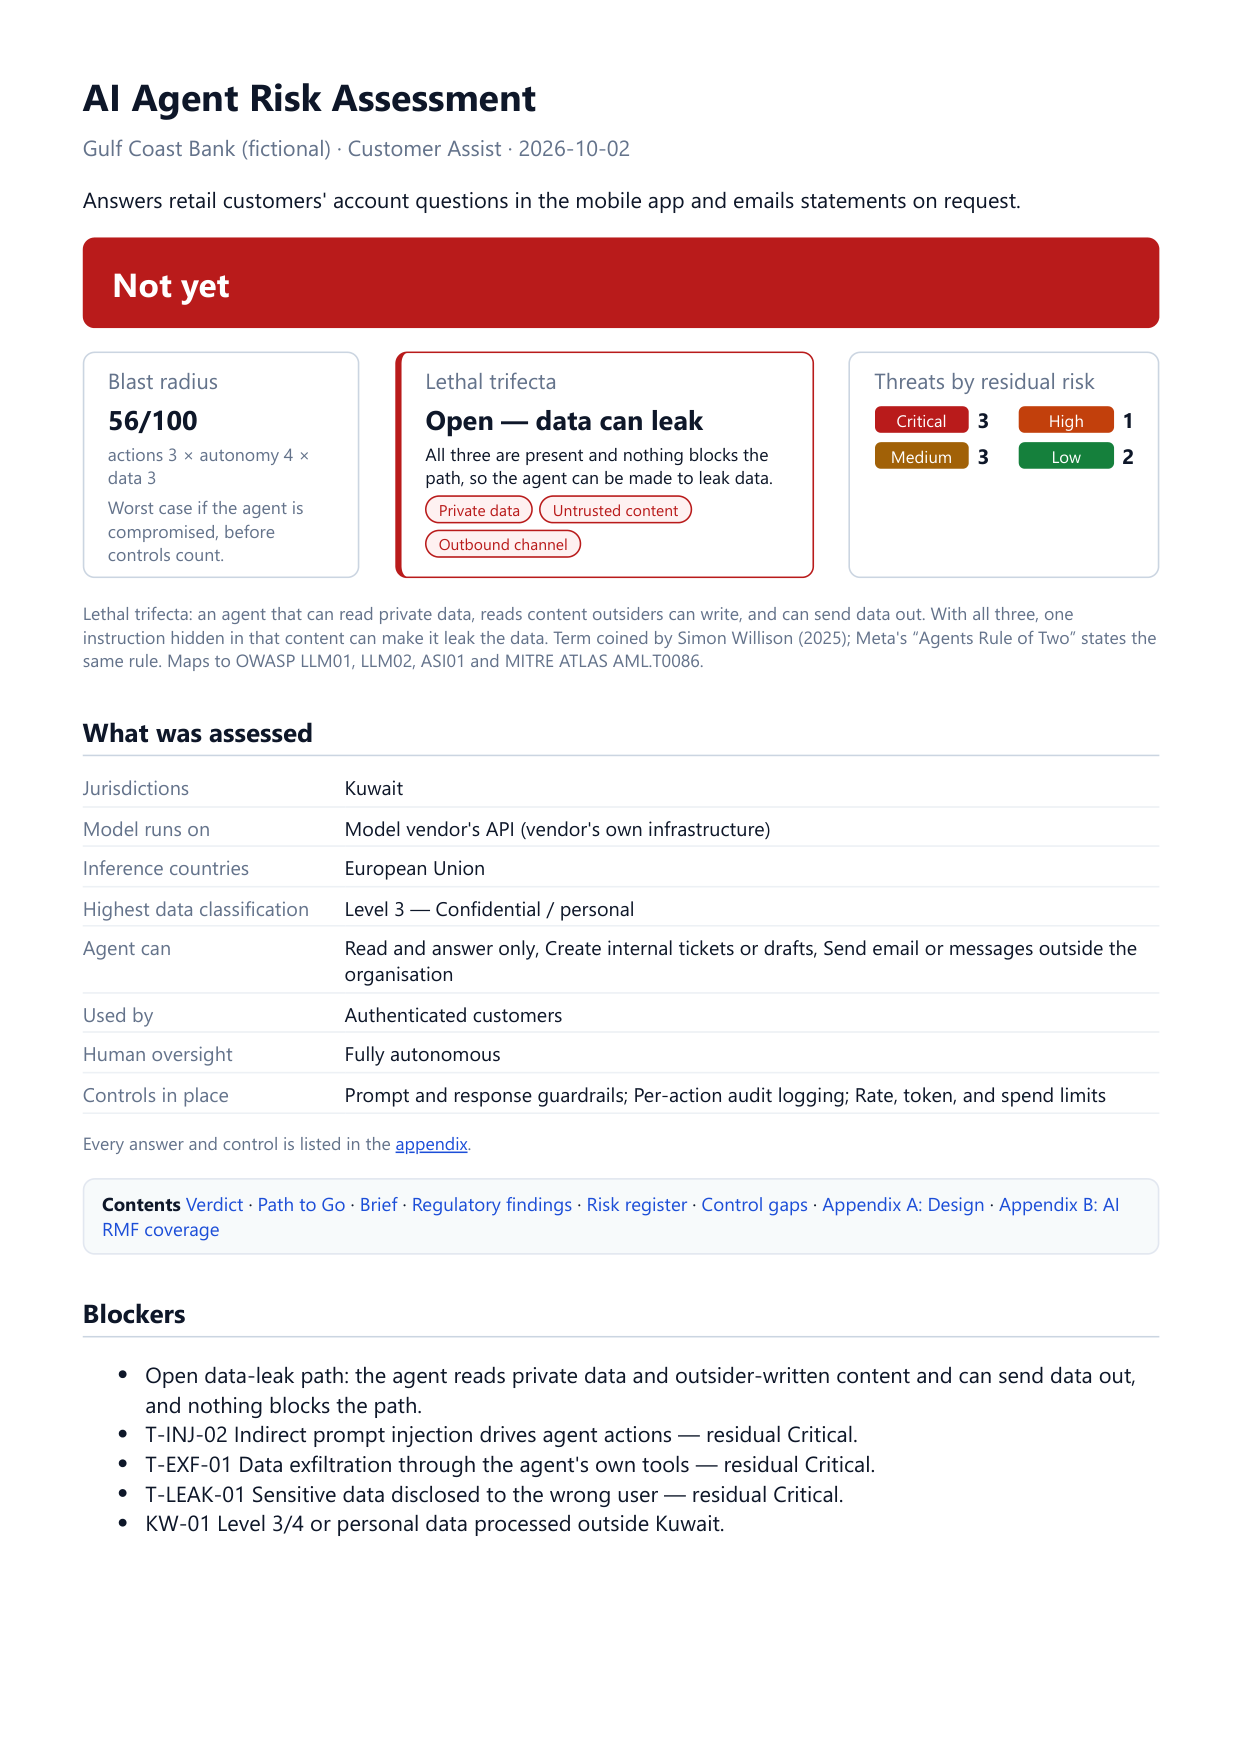
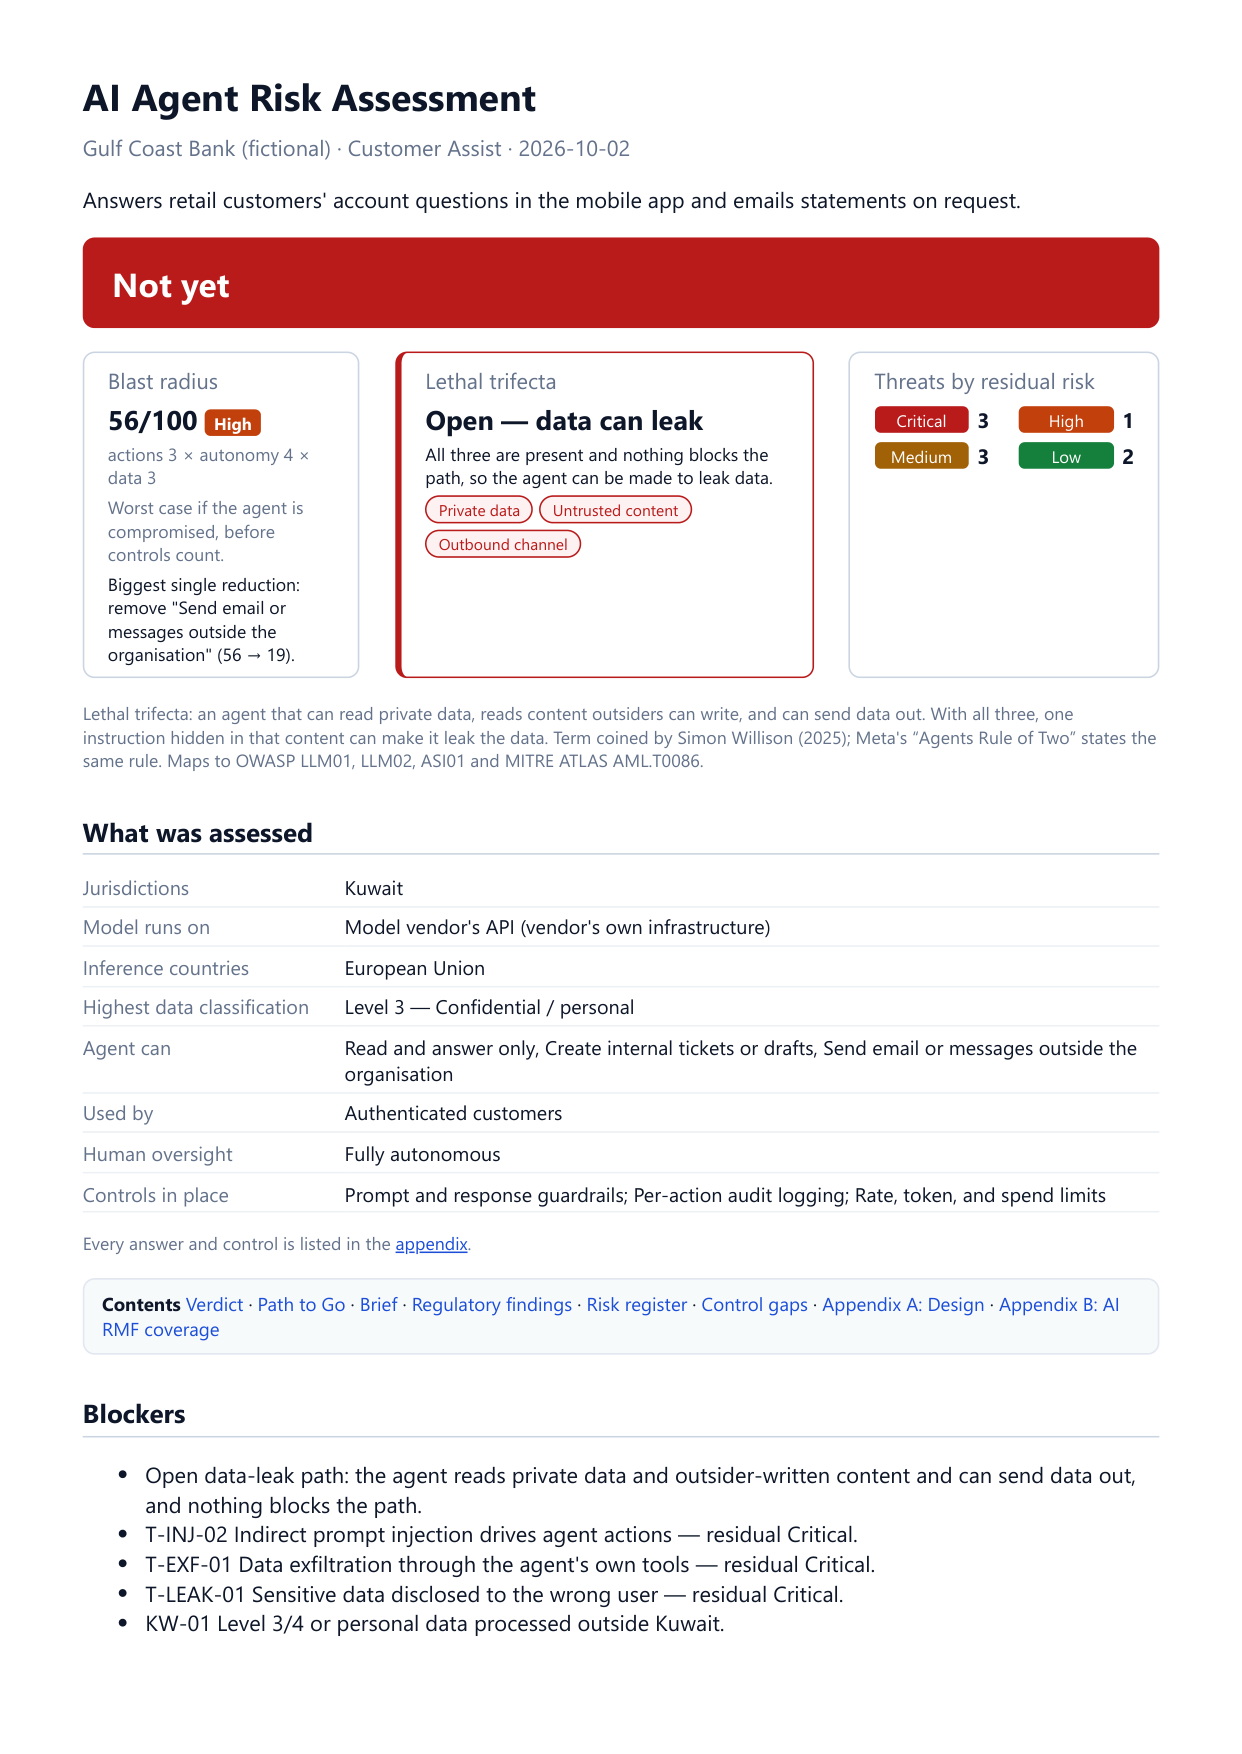
agent-risk-assessor: blast radius band and biggest single reduction
The card showed a bare number. It now carries a band on the raw product of
the three 1-4 scales (Low <= 8, Moderate <= 27, High <= 47, Severe above;
this tool's judgement: HR preset Low, bank High, procurement Severe) and
the one answer change that lowers the score most, with the new score:
e.g. 'remove "Send email or messages outside the organisation" (28 -> 9)'.
Where personal data floors the level at 3, the data change offered is
never 'pick a lower level'. Web and PDF; the verdict never uses the band.
Test added; spec, CLAUDE.md and screenshots updated.

diff --git a/projects/agent-risk-assessor/backend/engine.js b/projects/agent-risk-assessor/backend/engine.js
@@ -184,13 +184,44 @@ export const TRIFECTA_TEXT = {
   reference: "Term coined by Simon Willison (2025); Meta's “Agents Rule of Two” states the same rule. Maps to OWASP LLM01, LLM02, ASI01 and MITRE ATLAS AML.T0086.",
 };
 
+// Bands on the product of the three 1–4 scales (max 64). This tool's judgement: Low when no factor is
+// above 2 on average, Severe only when two factors are at their maximum and the third at 3 or more.
+const BLAST_BANDS = [[8, 'Low'], [27, 'Moderate'], [47, 'High'], [64, 'Severe']];
+const toScore = (p) => Math.round((p / 64) * 100);
+const optionLabel = (fieldId, v) => inputIndex[fieldId]?.options?.find((o) => o.value === v)?.label ?? v;
+
 function blastRadius(a) {
   const action = Math.max(1, ...asList(a.actions).map((v) => scaleOf('actions', v)));
   const autonomy = scaleOf('autonomy', a.autonomy) || 1;
   const data = scaleOf('dataSensitivity', a.dataSensitivity) || 1;
+  const product = action * autonomy * data;
+  const band = BLAST_BANDS.find(([max]) => product <= max)[1];
+
+  // The one answer change that lowers the score most, so the number comes with a next step.
+  const levers = [];
+  if (autonomy > 1) {
+    const stricter = inputIndex.autonomy.options.find((o) => o.scale === autonomy - 1);
+    levers.push({ change: `change oversight to "${stricter.label}"`, score: toScore(action * (autonomy - 1) * data) });
+  }
+  if (action > 1) {
+    const top = asList(a.actions).filter((v) => scaleOf('actions', v) === action);
+    const rest = Math.max(1, ...asList(a.actions).filter((v) => !top.includes(v)).map((v) => scaleOf('actions', v)));
+    levers.push({ change: `remove ${top.map((v) => `"${optionLabel('actions', v)}"`).join(' and ')}`, score: toScore(rest * autonomy * data) });
+  }
+  // Personal, health, financial, or credential data is floored at Level 3, so below that the data
+  // lever is keeping those data types out of reach rather than picking a lower level.
+  const floored = intersects(a.dataTypes, LEVEL_FLOOR_TYPES);
+  if (data > 1 && !(floored && data === 3)) {
+    const lower = inputIndex.dataSensitivity.options.find((o) => o.scale === data - 1);
+    levers.push({ change: `keep data above "${lower.label}" out of its reach`, score: toScore(action * autonomy * (data - 1)) });
+  }
+  const lever = levers.sort((x, y) => x.score - y.score)[0] ?? null;
+
   return {
-    score: Math.round(((action * autonomy * data) / 64) * 100),
+    score: toScore(product),
+    band,
     components: { action, autonomy, data },
+    lever,
   };
 }
 

diff --git a/projects/agent-risk-assessor/backend/report.js b/projects/agent-risk-assessor/backend/report.js
@@ -5,6 +5,8 @@ const esc = (s) =>
 const COLORS = { Critical: '#b91c1c', High: '#c2410c', Medium: '#a16207', Low: '#15803d', Advisory: '#475569' };
 const STATUS_COLORS = { Gap: '#b91c1c', Partial: '#a16207', Addressed: '#15803d' };
 const VERDICT_COLORS = { not_yet: '#b91c1c', go_with_conditions: '#c2410c', go: '#15803d' };
+// Blast-radius bands reuse the risk colours.
+const BAND_LEVEL = { Low: 'Low', Moderate: 'Medium', High: 'High', Severe: 'Critical' };
 const badge = (level) => `<span class="badge" style="background:${COLORS[level] ?? '#475569'}">${esc(level)}</span>`;
 const list = (items) => (items?.length ? items.map(esc).join(', ') : '—');
 
@@ -109,9 +111,10 @@ export function buildReportHtml({ profile = {}, controls = [], result, path, reg
 
     <div id="verdict" class="verdict" style="background:${VERDICT_COLORS[v.decision]}"><b>${esc(v.label)}</b></div>
     <div class="kpis">
-      <div class="kpi"><span class="muted">Blast radius</span><b>${result.blastRadius.score}/100</b>
+      <div class="kpi"><span class="muted">Blast radius</span><b>${result.blastRadius.score}/100 <span class="badge" style="background:${COLORS[BAND_LEVEL[result.blastRadius.band]]}">${esc(result.blastRadius.band)}</span></b>
         <span class="muted small">actions ${bc.action} × autonomy ${bc.autonomy} × data ${bc.data}</span>
-        <span class="muted small">Worst case if the agent is compromised, before controls count.</span></div>
+        <span class="muted small">Worst case if the agent is compromised, before controls count.</span>
+        ${result.blastRadius.lever ? `<span class="small">Biggest single reduction: ${esc(result.blastRadius.lever.change)} (${result.blastRadius.score} → ${result.blastRadius.lever.score}).</span>` : ''}</div>
       <div class="kpi wide${t.present && !t.broken ? ' alarm' : ''}"><span class="muted">Lethal trifecta</span><b>${esc(t.status)}</b>
         <span class="small">${esc(t.explanation)}</span>
         ${t.broken ? `<span class="small">Blocked by: ${list(t.breakerLabels)}</span>` : ''}

diff --git a/projects/agent-risk-assessor/frontend/src/components/Results.jsx b/projects/agent-risk-assessor/frontend/src/components/Results.jsx
@@ -49,7 +49,9 @@ function rememberBrief(key, brief) {
   } catch { /* storage full or private mode: the server cache still applies */ }
 }
 
-const Badge = ({ level }) => <span className={`badge b-${String(level).toLowerCase()}`}>{level}</span>;
+const Badge = ({ level, label = level }) => <span className={`badge b-${String(level).toLowerCase()}`}>{label}</span>;
+// Blast-radius bands reuse the risk colours.
+const BAND_LEVEL = { Low: 'Low', Moderate: 'Medium', High: 'High', Severe: 'Critical' };
 
 export default function Results({ answers, controls, whatIf, narrative, onApply, onExitWhatIf, onEditControls, controlTitles = {}, controlNotes = {} }) {
   const controlTitle = (id) => controlTitles[id] ?? id;
@@ -142,9 +144,12 @@ export default function Results({ answers, controls, whatIf, narrative, onApply,
       <div className="kpis">
         <div className="card kpi">
           <span className="muted">Blast radius</span>
-          <b>{result.blastRadius.score}<small>/100</small></b>
+          <b>{result.blastRadius.score}<small>/100</small> <Badge level={BAND_LEVEL[result.blastRadius.band]} label={result.blastRadius.band} /></b>
           <span className="muted small">actions {result.blastRadius.components.action} × autonomy {result.blastRadius.components.autonomy} × data {result.blastRadius.components.data}</span>
           <span className="muted small">Worst case if the agent is compromised, before controls count.</span>
+          {result.blastRadius.lever && (
+            <span className="small">Biggest single reduction: {result.blastRadius.lever.change} ({result.blastRadius.score} → {result.blastRadius.lever.score}).</span>
+          )}
           {result.dataLevel && <span className="small">Scored as Level {result.dataLevel.used}, not the Level {result.dataLevel.stated} answered: the agent reaches {result.dataLevel.raisedBy.join(', ')} data.</span>}
         </div>
         <div className={`card kpi ${t.present && !t.broken ? 'alarm' : ''}`}>

diff --git a/projects/agent-risk-assessor/backend/test/engine.test.js b/projects/agent-risk-assessor/backend/test/engine.test.js
@@ -200,6 +200,27 @@ test('every appliesWhen and setBy condition references real fields and options',
   }
 });
 
+test('blast radius comes with a band and the single change that lowers it most', () => {
+  const band = (id) => { const s = scenariosData.scenarios.find((x) => x.id === id); return assess(s.answers, s.controls).blastRadius; };
+  assert.equal(band('hr-policy').band, 'Low');
+  assert.equal(band('bank-cs').band, 'High');
+  assert.equal(band('procurement').band, 'Severe');
+  // Sends outside, approves high-risk only, internal data: 3 x 3 x 2 = 28.
+  const tracker = { actions: ['read_only', 'send_external'], autonomy: 'approve_high_risk', dataSensitivity: '2', dataTypes: ['none'] };
+  const b = assess(tracker, []).blastRadius;
+  assert.equal(b.score, 28);
+  assert.equal(b.band, 'Moderate');
+  assert.ok(b.lever.score < b.score);
+  // The biggest reduction: dropping the outbound action leaves read-only (28 -> 9), which beats
+  // halving the data level (14) or approving every action (19).
+  assert.equal(b.lever.score, 9);
+  assert.ok(b.lever.change.includes('Send email or messages outside the organisation'));
+  // With personal data the level is floored at 3, so the data lever is not "pick Level 2".
+  const personal = assess({ ...tracker, dataTypes: ['personal'] }, []).blastRadius;
+  assert.equal(personal.score, 42);
+  assert.ok(!personal.lever.change.includes('Level'), personal.lever.change);
+});
+
 test('Kuwait personal data outside Kuwait is Critical; in-country is not', () => {
   const base = { jurisdictions: ['KW'], dataSensitivity: '3', dataTypes: ['personal'], hostingCountry: ['EU'] };
   assert.ok(assess(base, []).residency.some((f) => f.id === 'KW-01' && f.severity === 4));

diff --git a/projects/agent-risk-assessor/CLAUDE.md b/projects/agent-risk-assessor/CLAUDE.md
@@ -59,7 +59,7 @@ Every question except the free-text profile fields is required. Where nothing ma
 Default a new question to multi-select; real agents mix audiences, identities, hosting, and regions. Use single only when the question is inherently one value (sector, *highest* classification, *weakest* oversight). Multi answers score as the worst case: `in` matches any selected value, `anyNotIn` fires if any value falls outside the list (residency), and `scaleOf` takes the highest scale.
 
 ## Scoring
-Residual = inherent severity − number of mitigating controls in place, floored at 1. Every control counts the same — a known simplification, stated in the README. Blast radius = max action scale × autonomy scale × data sensitivity, normalised to 100.
+Residual = inherent severity − number of mitigating controls in place, floored at 1. Every control counts the same — a known simplification, stated in the README. Blast radius = max action scale × autonomy scale × data sensitivity, normalised to 100. It carries a band (`BLAST_BANDS` in `engine.js`, on the raw product: Low ≤ 8, Moderate ≤ 27, High ≤ 47, Severe above) and the single answer change that lowers it most; the verdict never uses either.
 
 ## Regulatory scope, not just clause IDs
 Check a clause's **scope** in the primary text, not only its number. CORF 7.2 and CITRA 4.2.1.2 cover public, community, and hybrid cloud, not private cloud; CORF 7.2.1.3 applies only where sensitive data is involved. An earlier rule widened the CBK approval to private cloud from a compiled summary and was wrong. `hosting` keeps `private_cloud` and `hybrid_cloud` as separate options for this reason.

diff --git a/projects/agent-risk-assessor/PROJECT_SPEC.md b/projects/agent-risk-assessor/PROJECT_SPEC.md
@@ -91,6 +91,8 @@ An egress allowlist (which covers DNS) or restricting tools after untrusted cont
 
 `blast_radius = action_severity × autonomy_factor × data_sensitivity`, each on a 1–4 scale, normalised to 0–100. It shows the worst case if the agent is fully compromised, before controls are counted.
 
+Each score carries a band on the raw product (max 64): **Low** ≤ 8 (score ≤ 13), **Moderate** ≤ 27 (≤ 42), **High** ≤ 47 (≤ 73), **Severe** above that (75 and 100). The bands are this tool's judgement: the HR preset is Low, the bank preset High, the procurement preset Severe. The card also names the biggest single reduction: the one answer change (stricter oversight, dropping the highest-impact actions, or keeping the top data level out of reach) that lowers the score most, with the new score. Where personal, health, financial, or credential data floors the level at 3, the data change offered is never "pick a lower level". The band is information only; the verdict never uses it.
+
 ### Threat IDs
 
 Threat IDs follow `T-<category>-<number>` and are **this tool's own labels**, not a standard. They cross-reference a threat across blockers, the control gap table, and the CSV. The standard references carried on every threat are OWASP Top 10 for LLM Applications (LLM01–LLM10), OWASP Top 10 for Agentic Applications (ASI01–ASI10), and MITRE ATLAS technique IDs; those are the ones to quote to a regulator or auditor. The report says so under the risk register.
